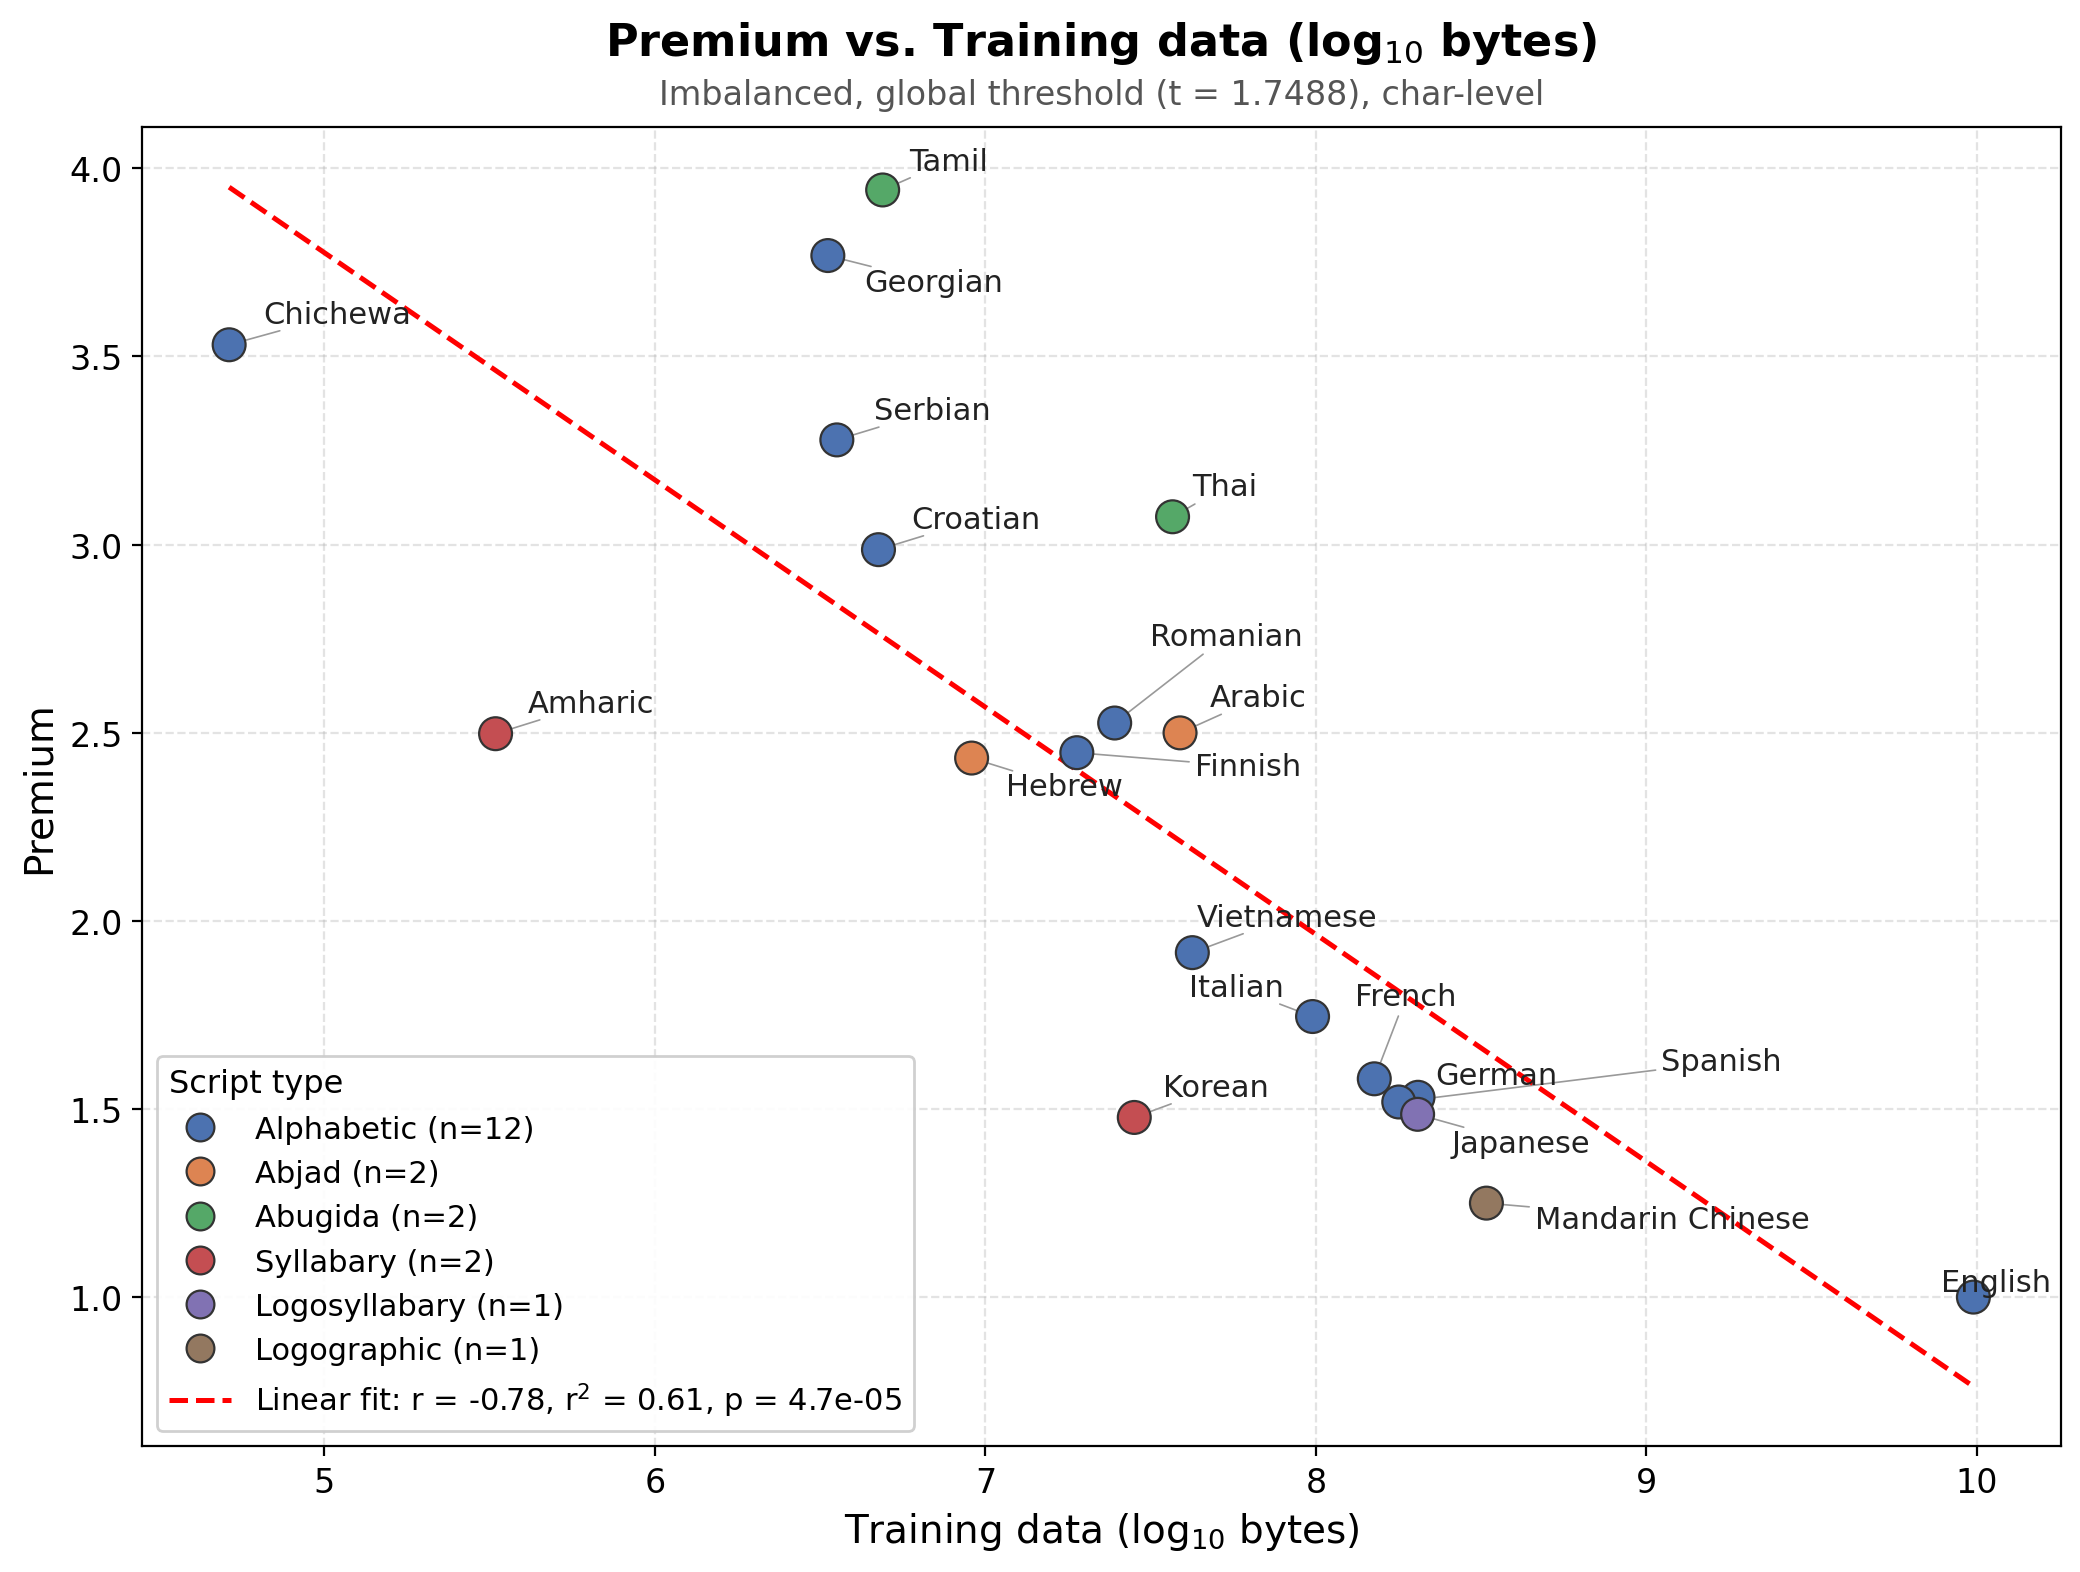
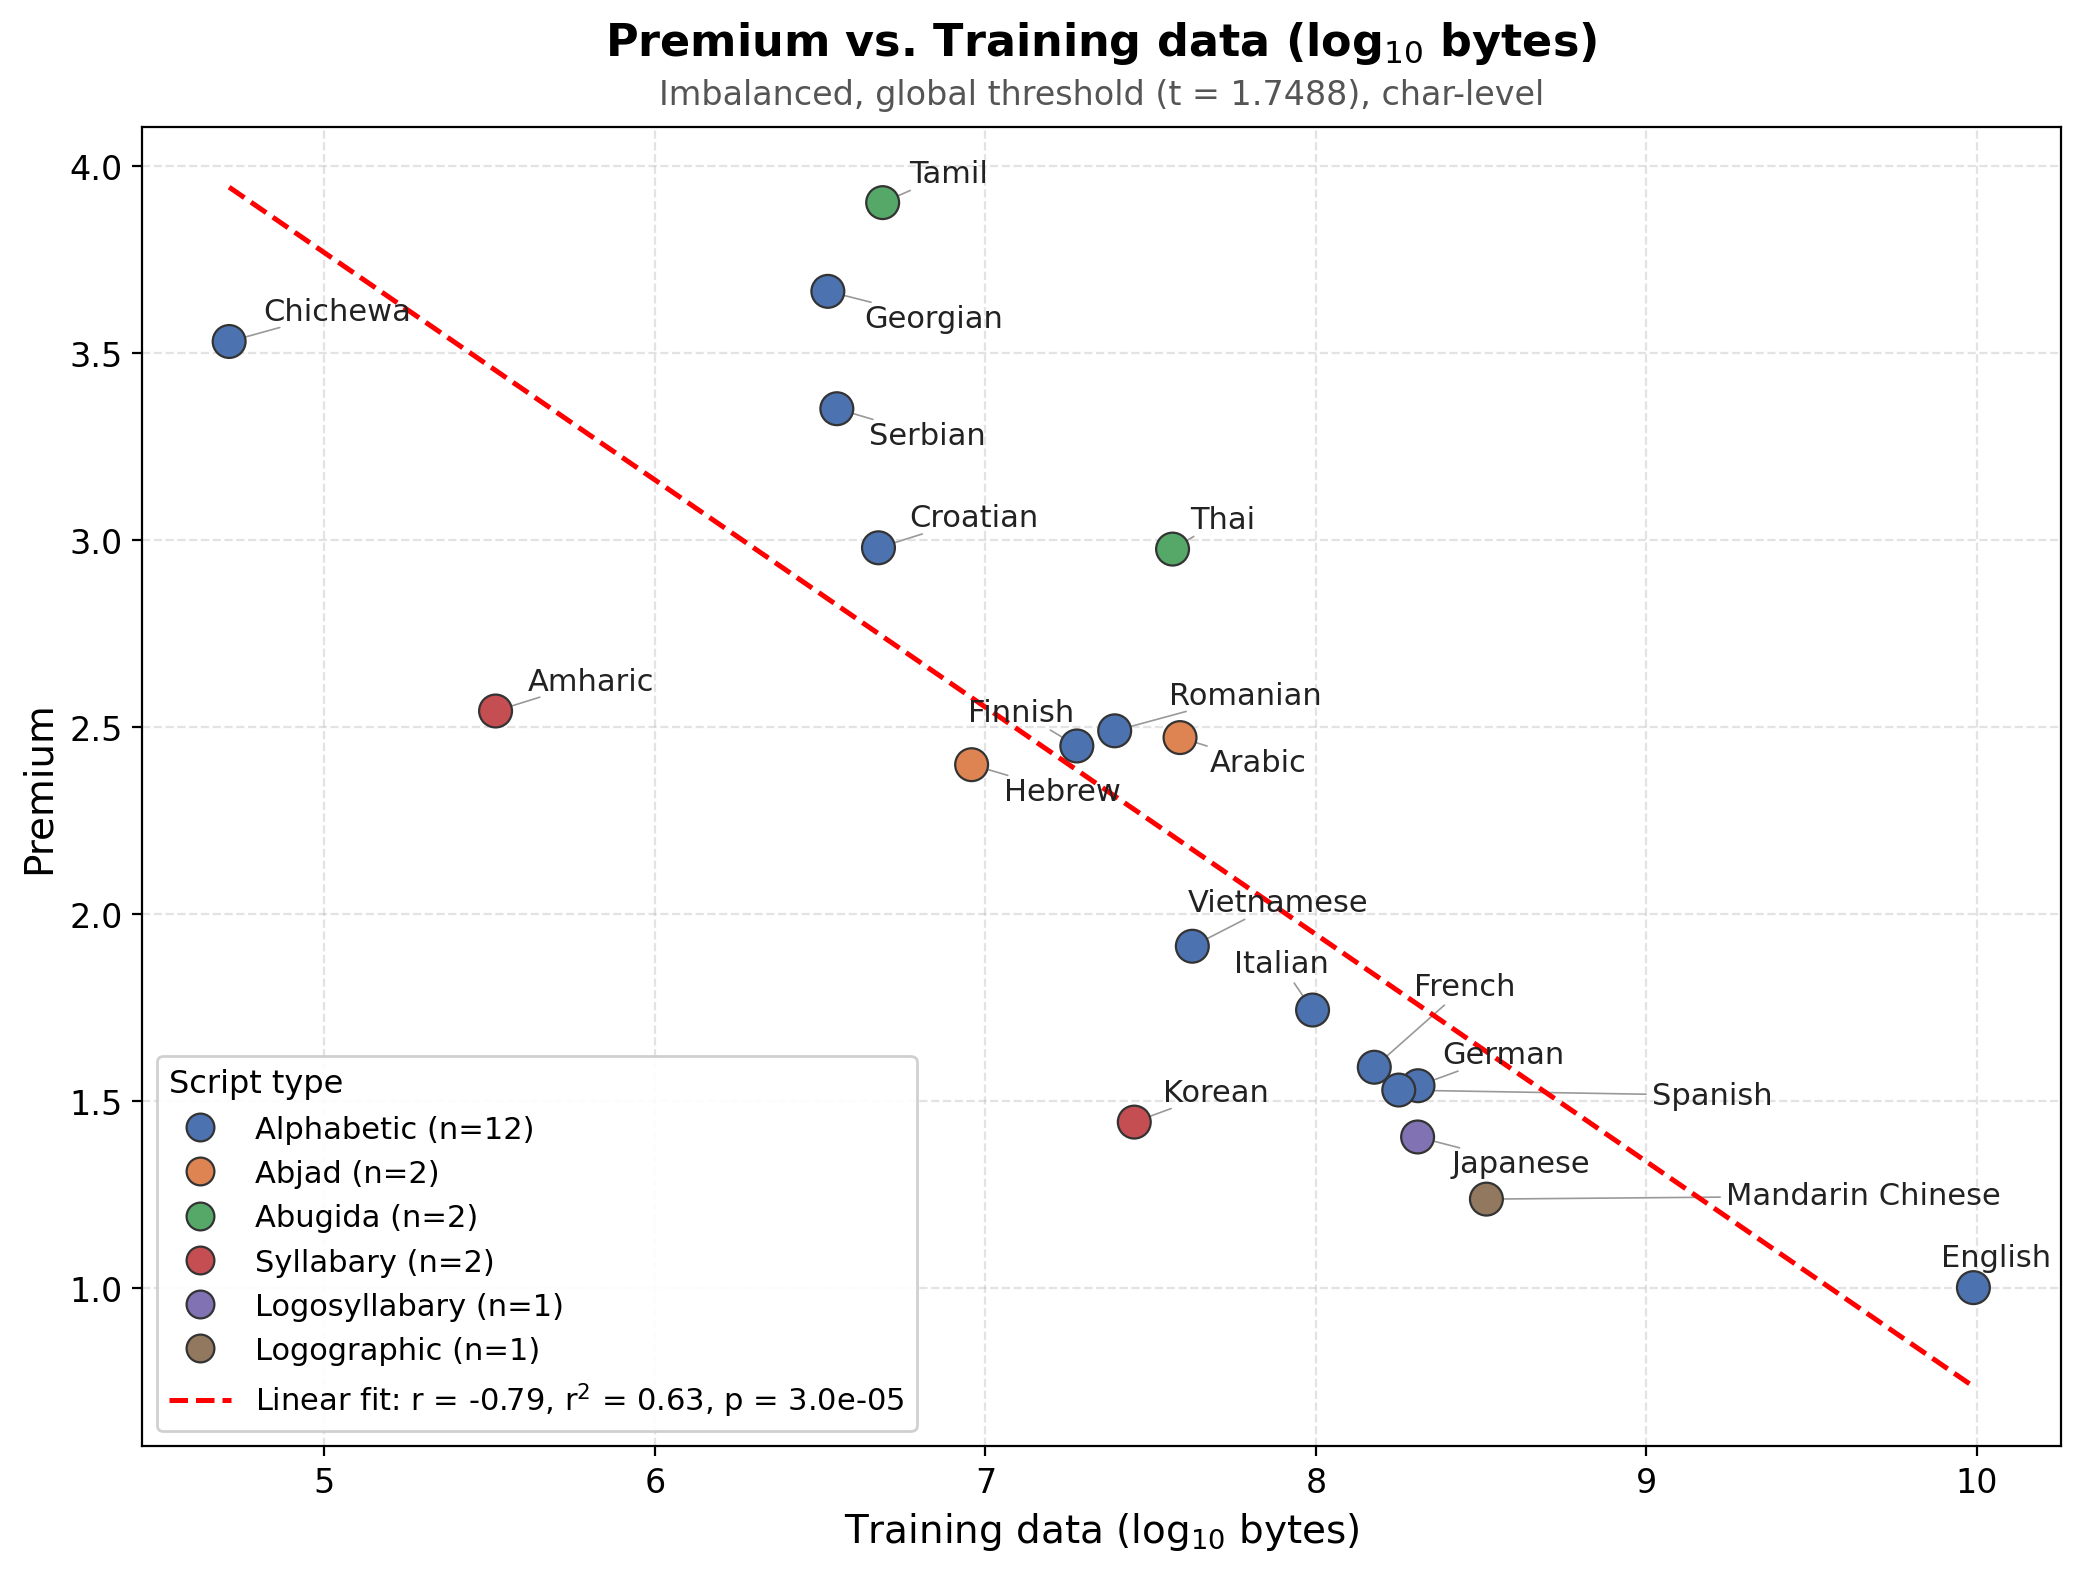
update char level plots

diff --git a/results/plot_correlation.py b/results/plot_correlation.py
@@ -410,7 +410,7 @@ RUN_INFO = {
     "Balanced-Custom": {
         "step": "0000006400",
         "byte": {"global": "2.0176", "mono": "2.0371"},
-        "char": {"global": "2.0630", "mono": "0.6877"},
+        "char": {"global": "2.0308", "mono": "0.7050"},
     },
 }
 
